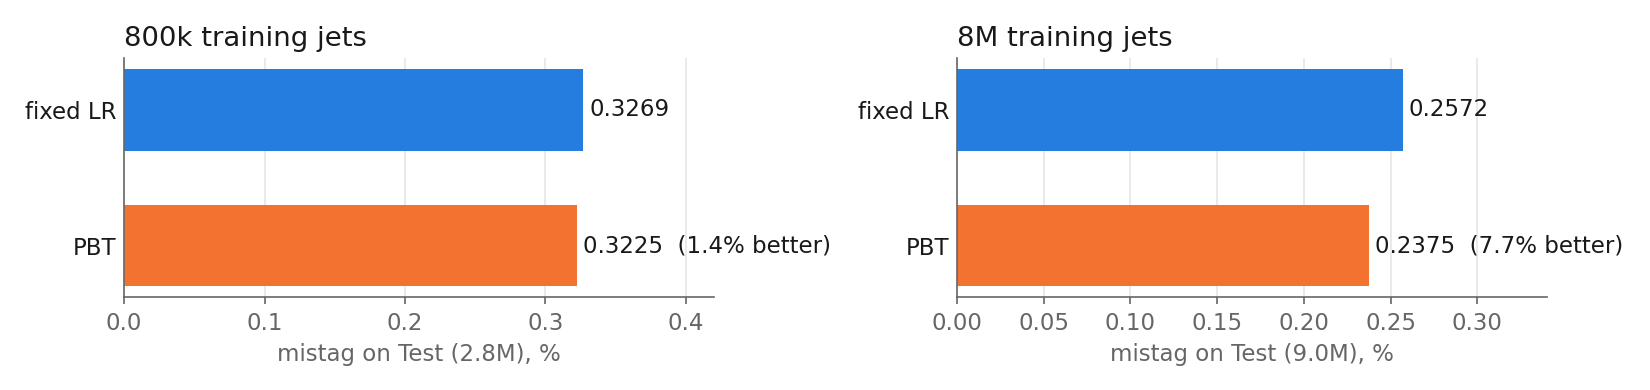
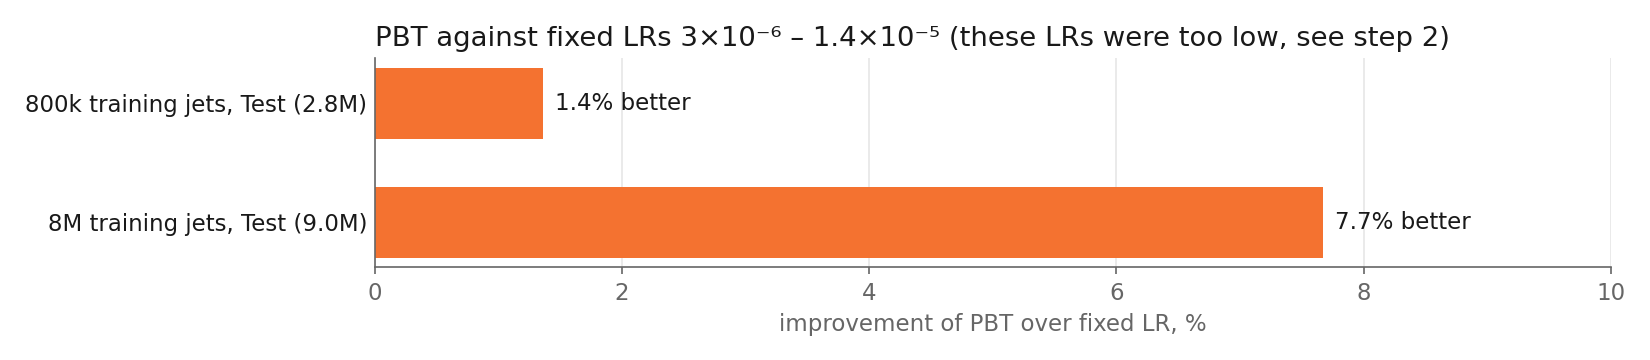
Correct and clarify the report
Step 2 says six times, not ten. Step 4 says almost always and shows the
training and Validation loss that explain the result. Step 1 shows the
improvement in percent. The summary states the limits. The run list gives
the start LR for standard ParT, seeds have their real numbers, short runs show
<1 GPU-h, and the trial and run tables fold away.

diff --git a/scripts/reports/export_report_trials.py b/scripts/reports/export_report_trials.py
@@ -129,6 +129,13 @@ def sci(x):
     return f'{float(m):g}×10{str(int(e)).translate(sup)}'
 
 
+def shown_lr(r):
+    """Start LR for standard ParT (its LR decays by schedule), else the LR at the selected epoch."""
+    if r['member'].startswith('flat_decay_'):
+        return 'start ' + sci(float(r['member'][len('flat_decay_'):].replace('e-6', '')) * 1e-6)
+    return sci(r['lr'])
+
+
 def span(records):
     a, b = min(r['start'] for r in records), max(r['end'] for r in records)
     return f'{a:%b %d %H:%M} → {b:%b %d %H:%M}'
@@ -151,7 +158,8 @@ def main():
             rows += [dict(trial=number, **r) for r in recs]
             links = [f':repo:`{r["run"]} <{r["config"]}>`' for r in recs] + records
             when = span(recs) if recs else dates
-            gpu = f' · {sum(r["gpu_hours"] for r in recs):.0f} GPU-h' if recs else ''
+            hours = sum(r['gpu_hours'] for r in recs)
+            gpu = (f' · {hours:.0f} GPU-h' if hours >= 1 else ' · <1 GPU-h') if recs else ''
             out += [f'   * - {number}', f'     - {when}', f'     - {what}{gpu}', '',
                     f'       {" · ".join(links)}' if links else '', f'     - {result}', f'     - {outcome}']
         out.append('')
@@ -160,11 +168,11 @@ def main():
     run_table = ['.. This file is generated by scripts/reports/export_report_trials.py; do not edit.', '',
                  '.. list-table::', '   :header-rows: 1', '   :widths: 4 32 20 8 16 10 10', '',
                  '   * - #', '     - Run (configuration)', '     - Start → end (JST)', '     - GPU-h',
-                 '     - Selected model: name, LR, epoch', '     - Validation', '     - Test (2.8M)']
+                 '     - Selected model, LR, epoch', '     - Validation', '     - Test (2.8M)']
     for r in rows:
         run_table += [f'   * - {r["trial"]}', f'     - :repo:`{r["run"]} <{r["config"]}>`',
-                      f'     - {r["start"]:%b %d %H:%M} → {r["end"]:%b %d %H:%M}', f'     - {r["gpu_hours"]:.0f}',
-                      f'     - {r["member"]}, {sci(r["lr"])}, {r["epoch"]}', f'     - {r["validation"]:.4f}',
+                      f'     - {r["start"]:%b %d %H:%M} → {r["end"]:%b %d %H:%M}', f'     - {r["gpu_hours"]:.0f}' if r['gpu_hours'] >= 1 else '     - <1',
+                      f'     - {r["member"]}, {shown_lr(r)}, {r["epoch"]}', f'     - {r["validation"]:.4f}',
                       f'     - {r["test"]:.4f}' if r['test'] else '     - —']
     (ROOT / 'docs/report_runs.inc').write_text('\n'.join(run_table) + '\n')
 

diff --git a/scripts/reports/plot_report_story.py b/scripts/reports/plot_report_story.py
@@ -41,13 +41,18 @@ def hbars(ax, rows, xlabel, fmt, lim):
 
 
 def step1():
-    fig, (a, b) = plt.subplots(1, 2, figsize=(11, 2.6))
-    hbars(a, [('fixed LR', 0.3269, FIXED, None), ('PBT', 0.3225, PBT, '0.3225  (1.4% better)')],
-          'mistag on Test (2.8M), %', '{:.4f}', 0.42)
-    a.set_title('800k training jets', loc='left', color=INK)
-    hbars(b, [('fixed LR', 0.2572, FIXED, None), ('PBT', 0.2375, PBT, '0.2375  (7.7% better)')],
-          'mistag on Test (9.0M), %', '{:.4f}', 0.34)
-    b.set_title('8M training jets', loc='left', color=INK)
+    fig, ax = plt.subplots(figsize=(11, 2.4))
+    rows = [('800k training jets, Test (2.8M)', 1.36), ('8M training jets, Test (9.0M)', 7.67)]
+    for i, (label, v) in enumerate(rows):
+        y = len(rows) - 1 - i
+        ax.barh(y, v, height=0.6, color=PBT)
+        ax.text(v + 0.1, y, f'{v:.1f}% better', va='center', fontsize=11, color=INK)
+    ax.set_yticks(range(len(rows)), [r[0] for r in reversed(rows)], color=INK)
+    ax.tick_params(axis='y', length=0)
+    ax.set_xlim(0, 10)
+    ax.set_xlabel('improvement of PBT over fixed LR, %')
+    ax.set_title('PBT against fixed LRs 3×10⁻⁶ – 1.4×10⁻⁵ (these LRs were too low, see step 2)', loc='left', color=INK)
+    clean(ax)
     fig.tight_layout()
     fig.savefig(OUT / 'step1.png', dpi=150)
     plt.close(fig)
@@ -125,8 +130,8 @@ if __name__ == '__main__':
     OUT.mkdir(parents=True, exist_ok=True)
     step1()
     step2()
-    gain_chart('step3.png', [('seed 1', 0.67), ('seed 2', 0.85), ('seed 3', 0.91)], 0.81, (0.34, 1.34),
+    gain_chart('step3.png', [('seed 12345', 0.67), ('seed 22345', 0.85), ('seed 32345', 0.91)], 0.81, (0.34, 1.34),
                '800k training jets: PBT against standard ParT', PBT, 2.4)
     step4()
-    gain_chart('step5.png', [('seed 1', 5.05), ('seed 2', 4.86), ('seed 3', 5.14)], 5.01, (4.17, 5.84),
+    gain_chart('step5.png', [('seed 12345', 5.05), ('seed 22345', 4.86), ('seed 32345', 5.14)], 5.01, (4.17, 5.84),
                '8M training jets: ensemble of two standard ParT models against the better one', ENS, 9.5)

diff --git a/docs/report.rst b/docs/report.rst
@@ -30,8 +30,8 @@ jets and by 7.7% on 8M training jets.
 Step 2 (early November): the win was not real
 ---------------------------------------------
 
-The fixed LRs of step 1 were too low. We trained with higher fixed LRs: the best one (8×10⁻⁵, ten
-times higher) is as good as PBT. So PBT won in step 1 because it moved to a higher LR, not because
+The fixed LRs of step 1 were too low. We trained with higher fixed LRs: the best one (8×10⁻⁵, about six
+times the highest LR of step 1) is as good as PBT. So PBT won in step 1 because it moved to a higher LR, not because
 it adapts the LR. We also found that the Validation set (150k jets) was too small to select models
 reliably, and changed to 1M jets.
 
@@ -61,8 +61,16 @@ to 2.7%, but PBT stays worse.
 
 The reason: on 8M jets the model does not overfit, so the best plan is a high LR for a long time
 and a decay at the end. PBT judges each change after only two epochs. Over two epochs a lower LR
-always looks better, so PBT lowers the LR too early. On 800k jets the model overfits, and an early
-low LR is correct; this is why PBT wins there.
+almost always looks better, so PBT lowers the LR too early. On 800k jets the model overfits, and an early
+low LR is correct; this is why PBT wins there. The figure below shows this: on 800k jets the
+loss on the training data falls below the loss on Validation (the model memorises its training
+data); on 8M jets the two stay together.
+
+.. figure:: ../published/results/sel1m/figures/overfitting.png
+   :alt: Training and Validation loss per epoch of the best standard ParT model, 800k and 8M
+   :width: 100%
+
+   Loss per epoch of the best standard ParT model (weaver epoch 18 is training epoch 1).
 
 .. figure:: ../published/results/report/step4.png
    :alt: How much worse PBT is than standard ParT on 8M training jets, with and without the fixes
@@ -105,6 +113,9 @@ Summary
      - **5.0% better** (3 seeds)
 
 .. _report-corrections:
+
+Limits: the 8M PBT results have one seed. All trials start from one pretrained model. Test
+(2.8M) was also used in diagnostics before step 3, so it is not fully unseen.
 
 Earlier statements that changed: the 1.4% and 7.7% of step 1 are not valid (step 2), and the
 first 8M value, 10.8% worse, is 12.4% against the better standard ParT model.
@@ -172,7 +183,15 @@ Every run with its selected model is listed in :ref:`report-runs`.
 Phase 0 (Jul 22 – Aug 31) was set-up. We tested first PBT versions and LR controllers and fixed
 two defects. These runs used an older training set-up and are not comparable.
 
+.. raw:: html
+
+   <details><summary><b>Show the 33 trials</b> (dates, runs, links)</summary>
+
 .. include:: report_trials.inc
+
+.. raw:: html
+
+   </details>
 
 Run names link to the configuration files. GPU-h is the GPU time of all members of the trial's runs.
 After phase 3 we changed to Validation (1M) and to standard ParT as the comparator, because with
@@ -187,8 +206,17 @@ All runs
 
 Every training run of trials 1–33. The selected model is the one with the best Validation value
 over the run; the epoch counts from the pretrained start (1–50, or 51–100 for trial 2). For PBT the
-name is the identity of a member, and the LR is the member's LR at that epoch. Validation is
+name is the identity of a member, and the LR is the member's LR at that epoch; for standard ParT
+the LR is the start LR (the schedule then lowers it). Validation is
 Validation (150k) for trials 1–17 and Validation (1M) from trial 18. Download:
 :download:`runs.csv <../published/results/report/runs.csv>`.
 
+.. raw:: html
+
+   <details><summary><b>Show the 42 runs</b></summary>
+
 .. include:: report_runs.inc
+
+.. raw:: html
+
+   </details>
